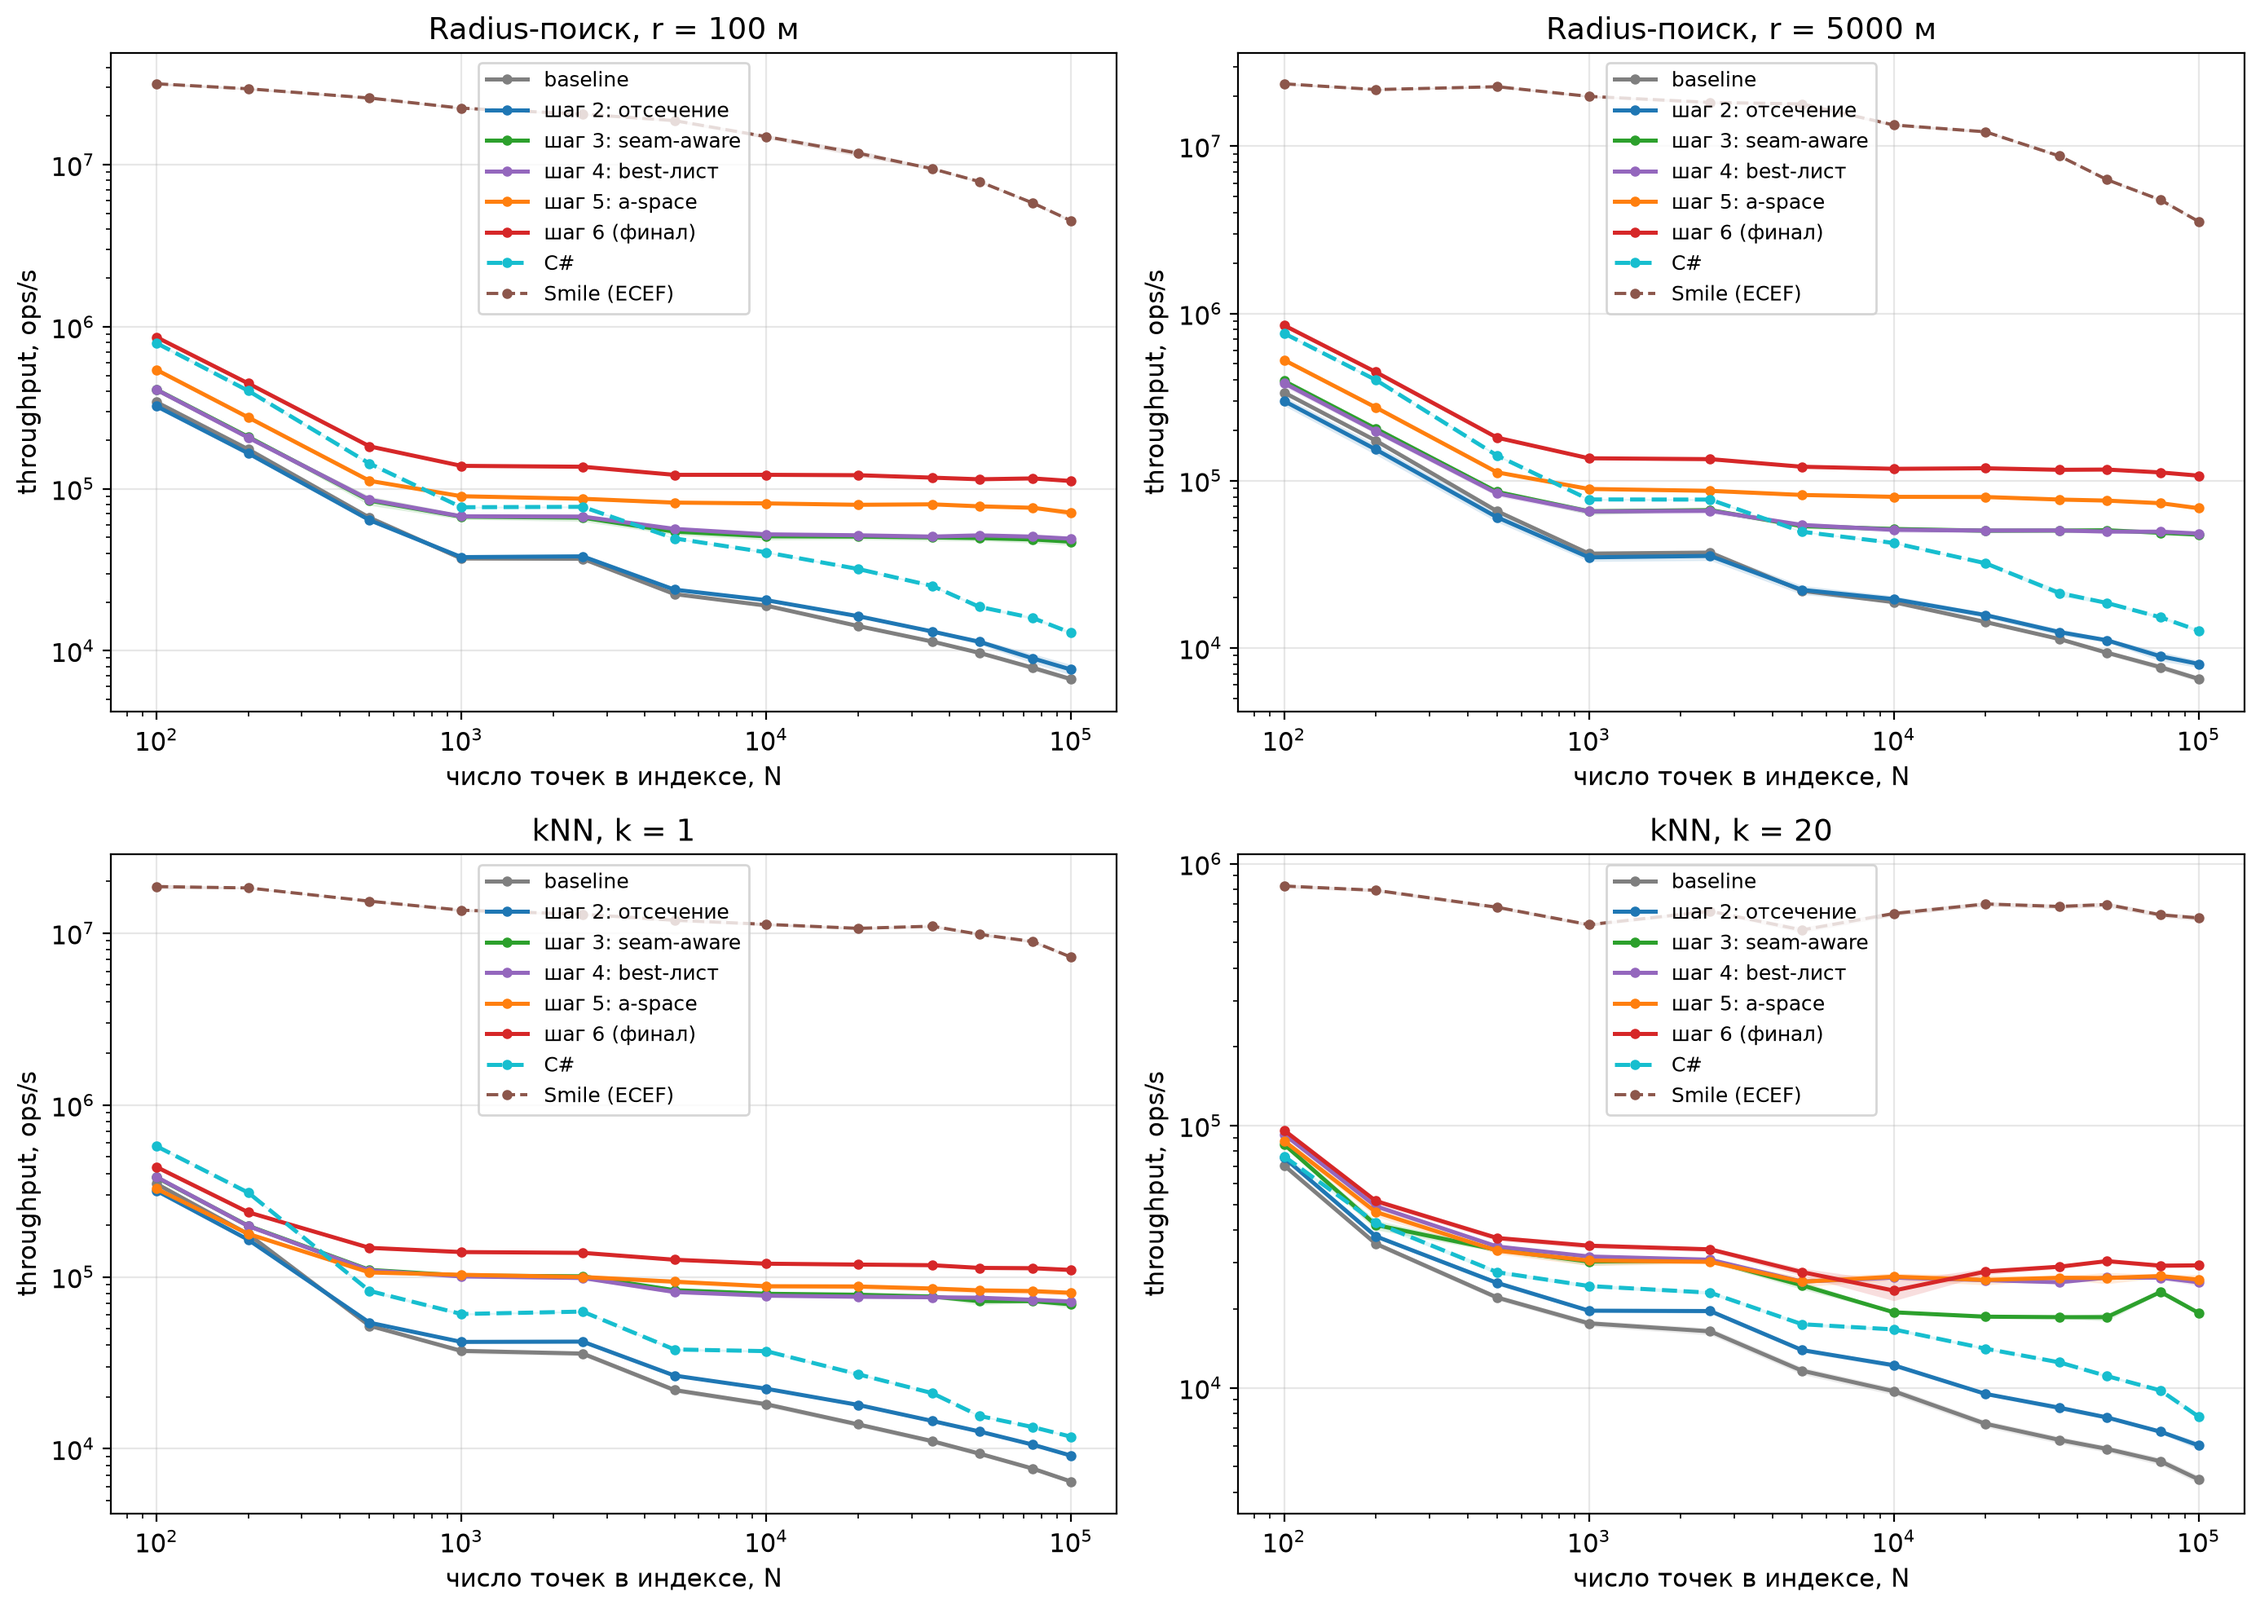
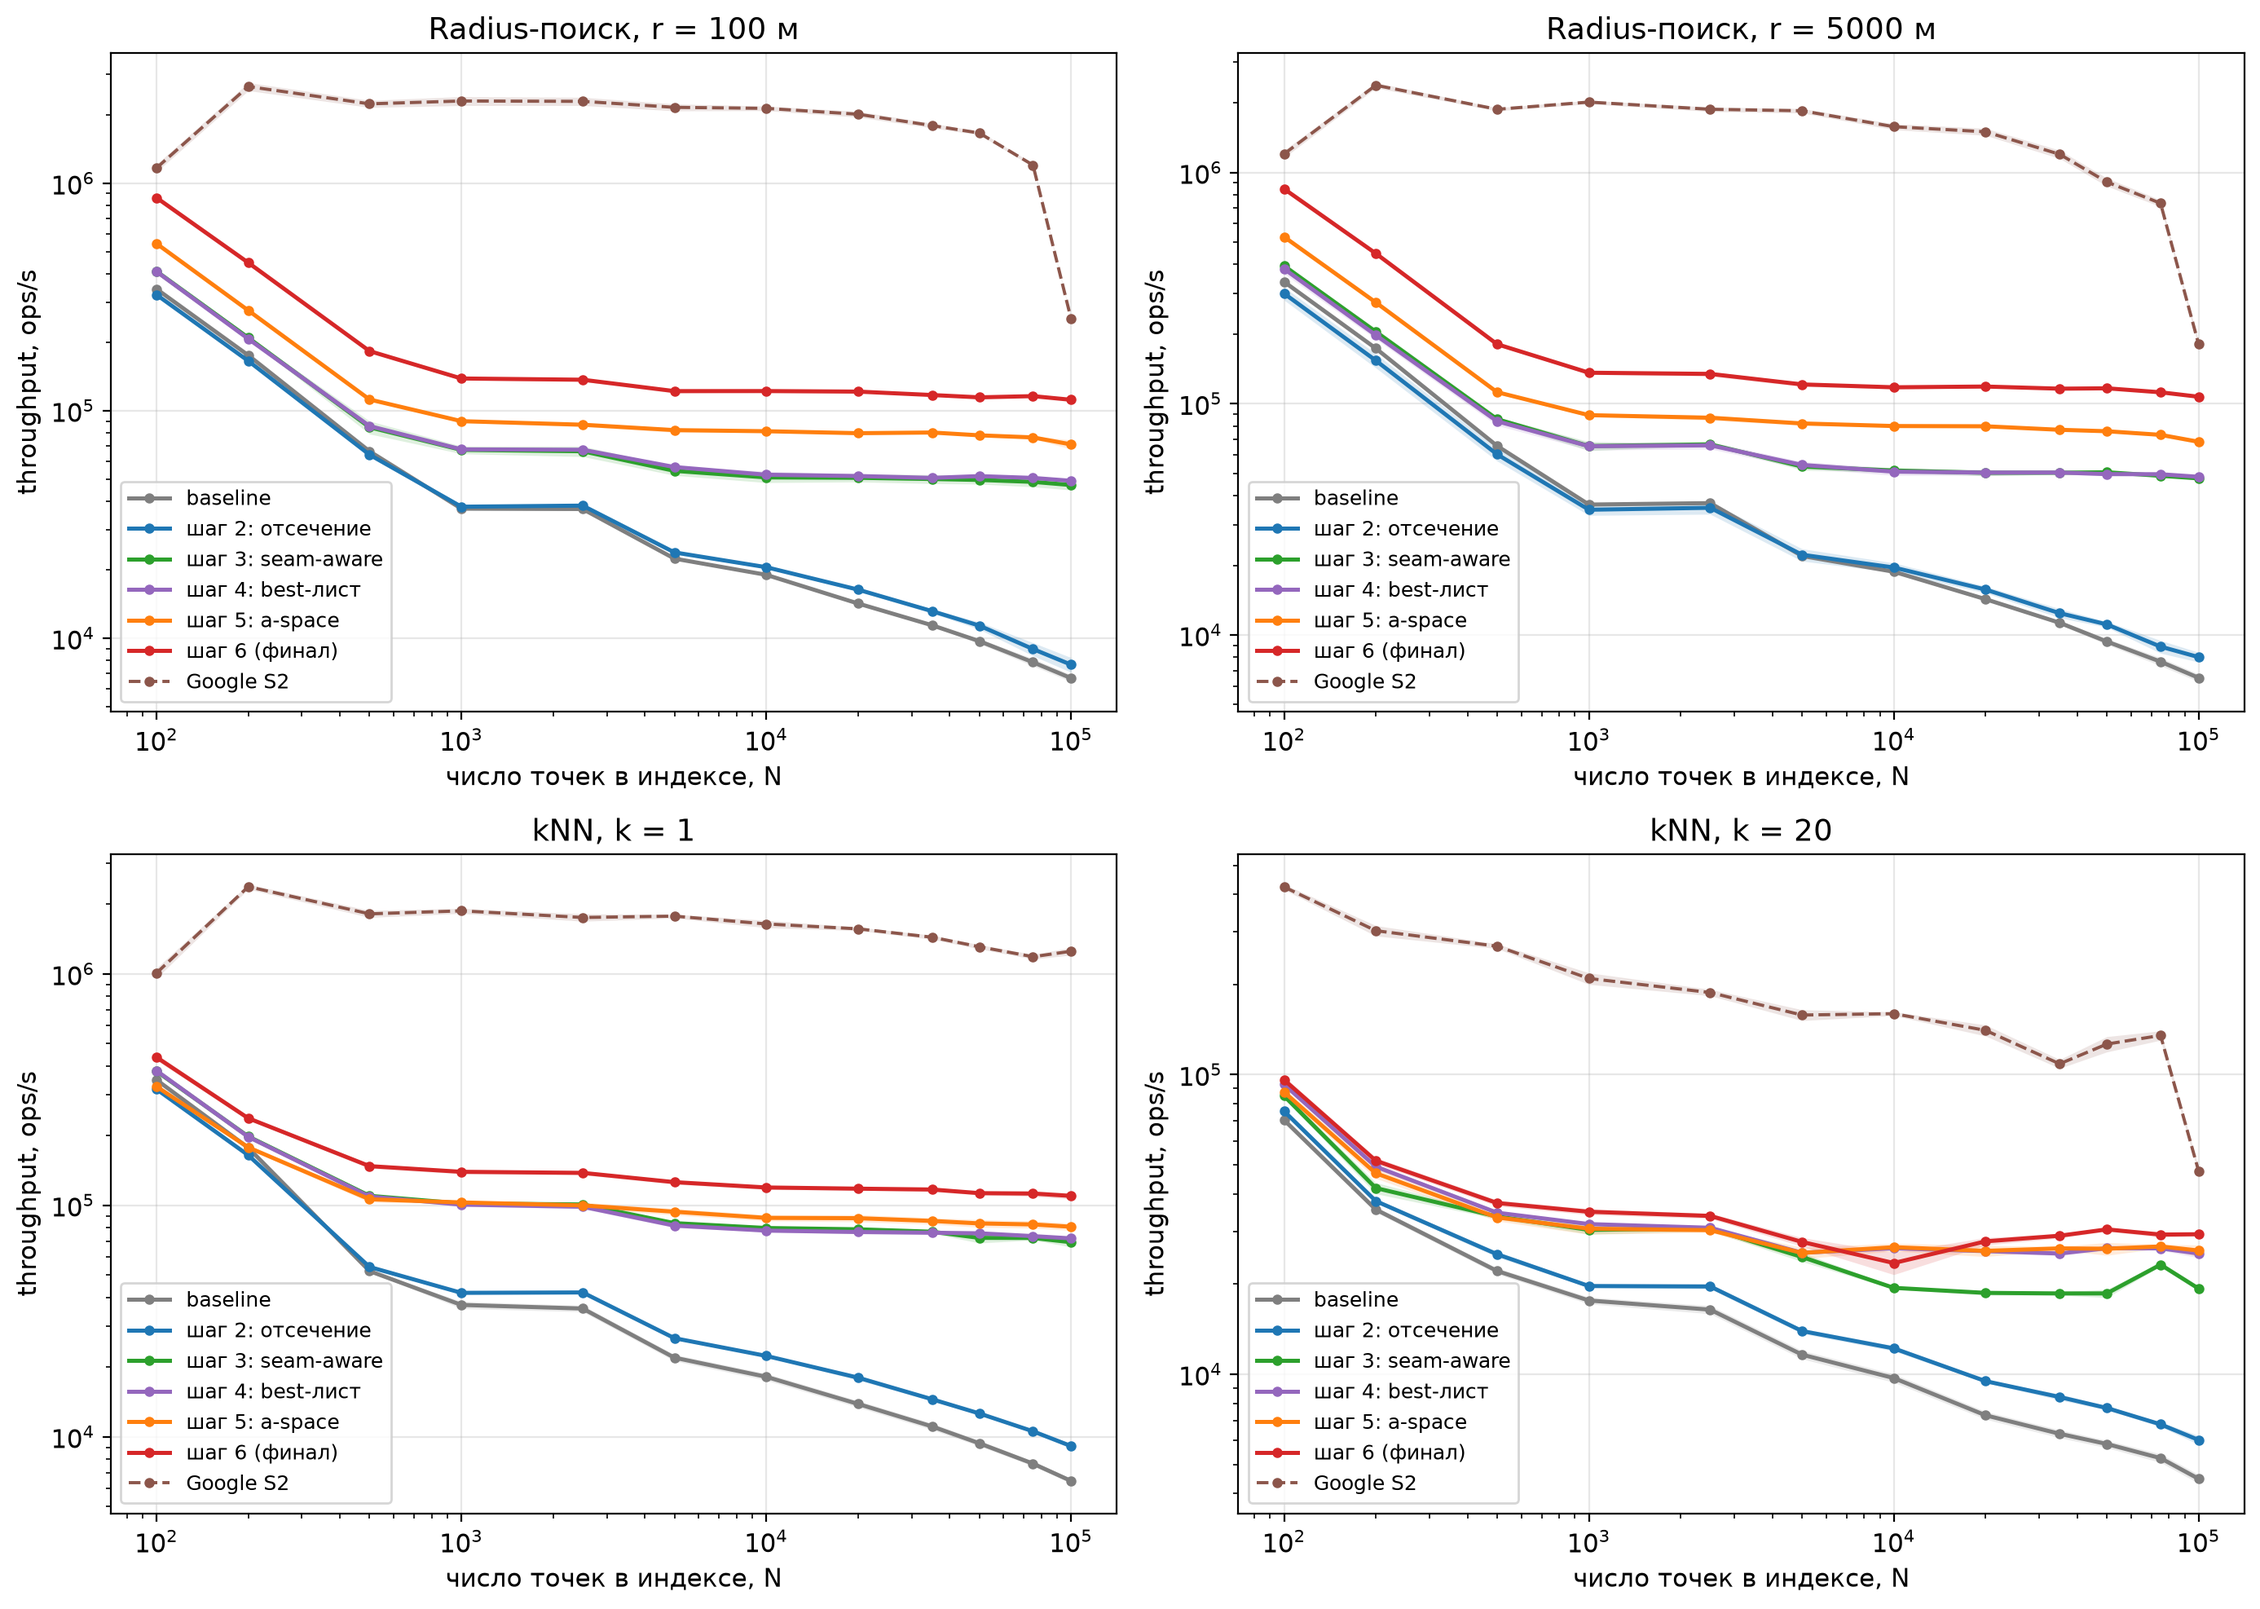
docs: s2 as primary dynamic competitor

diff --git a/lab-1-java-geo-kdtree/tools/make_ecef_charts.py b/lab-1-java-geo-kdtree/tools/make_ecef_charts.py
@@ -57,10 +57,14 @@ GRID = ROOT / "report/bench/grid"
 CHARTS = ROOT / "report/charts"
 
 SERIES = [
-    ("v6 (геодезия)", "perf6-trigcache", {"color": "#d62728", "linestyle": "-"}),
-    ("v7 (ECEF-ядро)", "ecef", {"color": "#9467bd", "linestyle": "-"}),
-    ("Smile KDTree", "public-smile", {"color": "#8c564b", "linestyle": "--"}),
+    ("геодезическое ядро", "perf6-trigcache", {"color": "#d62728", "linestyle": "-"}),
+    ("ECEF-ядро (канон)", "ecef", {"color": "#9467bd", "linestyle": "-"}),
     ("Google S2", "public-s2", {"color": "#2ca02c", "linestyle": "--"}),
+]
+MAIN_SERIES = SERIES
+STATIC_SERIES = [
+    ("ECEF-ядро (канон)", "ecef", {"color": "#9467bd", "linestyle": "-"}),
+    ("Smile KDTree (статика)", "public-smile", {"color": "#8c564b", "linestyle": "--"}),
 ]
 METHOD_OF = {
     "perf6-trigcache": {"radius": "queryKdTreeRadius", "knn": "queryKdTreeKnn"},
@@ -80,7 +84,11 @@ IMPL_COLORS = {"v6": "#d62728", "v7": "#9467bd", "v8": "#7f7f7f", "Smile": "#8c5
 
 def load_grid():
     data: dict[str, dict] = {}
-    for _, prefix, _ in SERIES:
+    merged_series = list(SERIES)
+    for _, prefix, _ in STATIC_SERIES:
+        if all(prefix != p for _, p, _ in merged_series):
+            merged_series.append((None, prefix, None))
+    for _, prefix, _ in merged_series:
         merged: dict = {}
         for fam in ("knn", "radius"):
             f = GRID / f"{prefix}-{fam}.txt"
@@ -112,7 +120,7 @@ def chart_throughput(data):
         ax.set_yscale("log")
         ax.set_xlabel("число точек в индексе, N")
         ax.set_ylabel("throughput, ops/s")
-        ax.set_title(f"{title} — v6 / v7 (ECEF) / Smile / S2, с ДИ")
+        ax.set_title(f"{title} — геодезическое ядро / ECEF-ядро / S2, с ДИ")
         ax.legend(fontsize=9)
         fig.savefig(out / f"throughput-{fam}-{param}.png")
         plt.close(fig)
@@ -152,8 +160,37 @@ def _write_summary(raw_file: Path, summary_file: Path):
             w.writerow(row)
 
 
+def chart_static_comparison():
+    """Illustrations for the static-vs-dynamic document (Smile included)."""
+    out = CHARTS / "static"
+    out.mkdir(parents=True, exist_ok=True)
+    data = load_grid()
+    for fam, param, title in FAMILIES:
+        fig, ax = plt.subplots(figsize=(8, 5))
+        for label, prefix, style in STATIC_SERIES:
+            merged = data[prefix]
+            method = METHOD_OF[prefix][fam]
+            xs = sorted(n for (m, n, p) in merged if m == method and p == param)
+            if not xs:
+                continue
+            ys = [merged[(method, n, param)].mean for n in xs]
+            lo = [merged[(method, n, param)].err_lo for n in xs]
+            hi = [merged[(method, n, param)].err_hi for n in xs]
+            ax.plot(xs, ys, marker="o", markersize=3.5, label=label, linewidth=1.8, **style)
+            ax.fill_between(xs, [y - l for y, l in zip(ys, lo)], [y + h for y, h in zip(ys, hi)],
+                            color=style["color"], alpha=0.15, linewidth=0)
+        ax.set_xscale("log")
+        ax.set_yscale("log")
+        ax.set_xlabel("число точек в индексе, N")
+        ax.set_ylabel("throughput, ops/s")
+        ax.set_title(f"{title} — динамическое ядро против статического Smile")
+        ax.legend(fontsize=9)
+        fig.savefig(out / f"throughput-{fam}-{param}.png")
+        plt.close(fig)
+
+
 def chart_nodecost():
-    out = CHARTS / "ecef"
+    out = CHARTS / "static"
     out.mkdir(parents=True, exist_ok=True)
     raw = GRID / "nodecost-raw.csv"
     if not raw.exists():
@@ -193,7 +230,8 @@ def chart_nodecost():
             ax.set_title(title)
             ax.legend(fontsize=9)
         fig.suptitle(f"Разложение стоимости запроса — {dataset}, n=100000, 15 прогонов (NodeCostRunner)", y=1.02)
-        fig.savefig(out / f"nodecost-{dataset}.png")
+        short = dataset.split(" ")[0]
+        fig.savefig(out / f"nodecost-{short}.png")
         plt.close(fig)
 
 
@@ -245,7 +283,7 @@ def chart_realdata():
         if full_ds is None:
             continue
         x = list(range(len(queries)))
-        present = [i for i in IMPLS if (full_ds, queries[0], i.lower()) in groups]
+        present = [i for i in IMPLS if i != "Smile" and (full_ds, queries[0], i.lower()) in groups]
         width = 0.8 / max(len(present), 1)
         fig, ax = plt.subplots(figsize=(9, 5.5))
         all_means = []
@@ -281,6 +319,7 @@ def chart_realdata():
 def main() -> int:
     data = load_grid()
     chart_throughput(data)
+    chart_static_comparison()
     chart_nodecost()
     chart_realdata()
     print(f"charts written to {CHARTS}")

diff --git a/lab-1-java-geo-kdtree/tools/make_charts.py b/lab-1-java-geo-kdtree/tools/make_charts.py
@@ -306,30 +306,11 @@ def chart_java_vs_cs(java: dict[str, dict], cs: dict | None, outdir: Path):
         plt.close(fig)
 
 
-def chart_public(java: dict[str, dict], smile: dict | None, outdir: Path):
-    if not smile:
-        return
-    out = outdir / "public"
-    out.mkdir(parents=True, exist_ok=True)
-    smile_method = {"radius": "querySmileRadius", "knn": "querySmileKnn"}
-    for family, param in FAMILIES:
-        p = str(param)
-        fig, ax = plt.subplots(figsize=(8, 5))
-        for state in ("baseline", "perf6-trigcache"):
-            kd, _fs = METHODS[(family, param)]
-            xs, ys, lo, hi = _series(java[state], kd, p)
-            _plot_series(ax, xs, ys, lo, hi, f"наш индекс: {STATE_LABELS[state]}", COLORS[state])
-        xs, ys, lo, hi = _series(smile, smile_method[family], p)
-        _plot_series(ax, xs, ys, lo, hi, "Smile KDTree (ECEF-3D)", COLORS["smile"], linestyle="--")
-        _finish(ax, f"{FAMILY_TITLES[(family, param)]} — свой индекс против Smile", log_y=True)
-        fig.savefig(out / f"{family}-{param}.png")
-        plt.close(fig)
-
 
 def chart_summary(java: dict[str, dict], cs: dict | None, smile: dict | None, outdir: Path):
     out = outdir / "summary"
     out.mkdir(parents=True, exist_ok=True)
-    smile_method = {"radius": "querySmileRadius", "knn": "querySmileKnn"}
+    smile_method = {"radius": "queryS2Radius", "knn": "queryS2Knn"}  # S2 as the dynamic competitor
 
     fig, axes = plt.subplots(2, 2, figsize=(14, 10))
     for ax, (family, param) in zip(axes.flat, FAMILIES):
@@ -344,7 +325,7 @@ def chart_summary(java: dict[str, dict], cs: dict | None, smile: dict | None, ou
             _plot_series(ax, xs, ys, lo, hi, "C#", COLORS["csharp"], linestyle="--")
         if smile:
             xs, ys, lo, hi = _series(smile, smile_method[family], p)
-            _plot_series(ax, xs, ys, lo, hi, "Smile (ECEF)", COLORS["smile"], linestyle="--", linewidth=1.4)
+            _plot_series(ax, xs, ys, lo, hi, "Google S2", COLORS["smile"], linestyle="--", linewidth=1.4)
         _finish(ax, FAMILY_TITLES[(family, param)], log_y=True)
     fig.tight_layout()
     fig.savefig(out / "summary-2x2.png")
@@ -362,11 +343,11 @@ def chart_summary(java: dict[str, dict], cs: dict | None, smile: dict | None, ou
         entries.append(("C#", cs, {fam: CS_METHOD[kd_method(fam)] for fam in ("radius", "knn")}))
     entries.append(("Java baseline", java.get("baseline"), {fam: kd_method(fam) for fam in ("radius", "knn")}))
     if smile:
-        entries.append(("Smile KDTree (ECEF)", smile, {"radius": "querySmileRadius", "knn": "querySmileKnn"}))
+        entries.append(("Google S2", smile, {"radius": "queryS2Radius", "knn": "queryS2Knn"}))
     entries.append(("Java финал", java.get("perf6-trigcache"), {fam: kd_method(fam) for fam in ("radius", "knn")}))
 
     color_of = {"C#": COLORS["csharp"], "Java baseline": COLORS["baseline"],
-                "Smile KDTree (ECEF)": COLORS["smile"], "Java финал": COLORS["perf6-trigcache"]}
+                "Google S2": COLORS["smile"], "Java финал": COLORS["perf6-trigcache"]}
 
     fig, ax = plt.subplots(figsize=(11, 5.5))
     width = 0.8 / max(len(entries), 1)
@@ -467,7 +448,7 @@ def main() -> int:
         return 1
 
     smile: dict | None = None
-    smile_files = sorted(grid.glob("public-smile-*.txt"))
+    smile_files = sorted(grid.glob("public-s2-*.txt"))
     if smile_files:
         smile = {}
         for f in smile_files:
@@ -490,7 +471,6 @@ def main() -> int:
     chart_speedup(java, charts)
     chart_ratio(java, charts)
     chart_java_vs_cs(java, cs, charts)
-    chart_public(java, smile, charts)
     chart_summary(java, cs, smile, charts)
     write_tables(java, cs, smile, grid / "tables.md")
     print(f"charts written to {charts}")

diff --git a/lab-1-java-geo-kdtree/README.md b/lab-1-java-geo-kdtree/README.md
@@ -81,6 +81,7 @@ async-profiler: приаттачиться к PID процесса `ProfileRunne
 - [report/4-public-comparison.md](report/4-public-comparison.md) — Smile и Google S2, разложение узлы × цена, точность
 - [report/5-structure-experiments.md](report/5-structure-experiments.md) — ECEF-ядро, многопрогонность, коробки (опровергнуто), scapegoat
 - [report/6-related-work.md](report/6-related-work.md) — обзор библиотек (JTS, GEOS, S2, Lucene, JSI) и research gap
+- [report/7-static-vs-dynamic.md](report/7-static-vs-dynamic.md) — цена мутабельности: динамическое ядро против статического Smile
 - [report/research-plan.md](report/research-plan.md) — гипотезы H1–H6, статусы, отложенные пункты
 - `report/profiles/` — JFR-записи, HTML-флеймграфы, collapsed-стеки; `report/profiles/grid/` — по каждому состоянию на расширенной сетке; `report/profiles/images/` — скриншоты
 - `report/bench/` — сырые JMH-результаты; `report/bench/grid/` — замеры по состояниям на расширенной сетке + сводные таблицы
